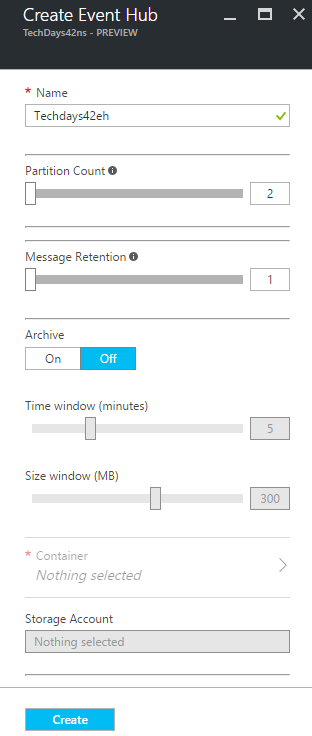
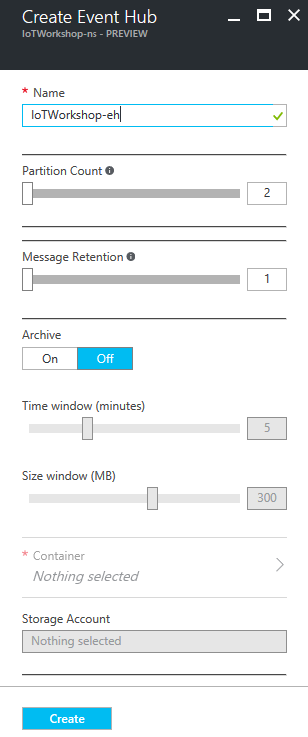
eventhub

diff --git a/Azure.md b/Azure.md
@@ -7,6 +7,8 @@ This is an example of how uplink and downlink messages from and to The Things Ne
 
 Before connecting to Azure Functions, you will first add an Azure Stream Analytics job and Azure Event Hub.
 
+The Azure Function will execute custom code in the Cloud, bases on certain telemetry. We need Stream Analytics and the Event Hub to pass the telemetry to our function.
+
 *Note: In this workshop, we will create uniquely named Azure resources. The suggested names could be reserved already. Just try another unique name.*
 
 ### Prerequisites
@@ -87,11 +89,11 @@ Follow these steps to create an Azure Event Hub which passes large amounts of ev
 12. Select `Create` and the portal will start creating the namespace. Once it is created, a notification is shown
 13. Creating a namespace will take some time, we have to check the completion this step
 14. So navigate back to the resource group (repeat step 1 and 2) and check the namespace creation in the resource group
-15. If the namespace has become listed, select it, eg. `IoTWorkshop-ns`. Otherwise, 'refresh' the list a few times
+15. If the namespace has become listed, select it, eg. `IoTWorkshop-ns`. Otherwise, 'refresh' the list of resources in the resource group a few times by pressing `Refresh` 
 
     ![alt tag](img/azure-portal-refresh.png)
 
-16. You are now in the namespace blade. It should be shown like this, with all information available (otherwise, refresh a few times):
+16. You are now in the namespace blade. It should be shown like this, with all information available (otherwise, refresh a few times so Azure can show the completely generated namespace). There are no event hubs yet in this namespace:
 
     ![alt tag](img/azure-namespace.png)
 
@@ -99,8 +101,13 @@ Follow these steps to create an Azure Event Hub which passes large amounts of ev
 
     ![alt tag](img/azure-namespace-add.png)
 
-18. A dialog for a new Event Hub is shown. Enter a unique name eg. `TechDays42eh`. A green sign will be shown if the name is unique *Note: the name will be reverted to lower case when the Event Hub is created!*
+18. A dialog for a new Event Hub is shown. Enter a unique name eg. `IoTWorkshop-eh`. A green sign will be shown if the name is unique *Note: the name will be reverted to lower case when the Event Hub is created!*
+
+    ![alt tag](img/azure-eventhub-create.png)
+
 19. Select `Create` and the portal will start creating the Event Hub. Once it is created, a notification is shown
+
+    ![alt tag](img/azure-eventhub-created.png)
 
 The Event Hub is now created. But before we leave the namespace it is created in, we need some secrets for later usage.
 
@@ -114,7 +121,7 @@ A few steps below we will create an Azure Functions triggered by an Event Hub. A
     ![alt tag](img/azure-eventhub-policy.png)
 
 3. **Write down** the Connection string `Connection String-Primary Key`
-4. **Write down** the `name` of the Event Hub eg. `techdays42eh` *Note: in lower case*
+4. **Write down** the `name` of the Event Hub eg. `iotworkshop-eh` *Note: in lower case*
 
 *Note: The Event Hub itself has Shared access policies too. We do not need to remember those, just the one of the policy of the namespace!.*
 
@@ -149,7 +156,7 @@ As shown above, the Azure Stream Analytics job will connect the IoT Hub and the 
     ![alt tag](img/azure-portal-add.png)
 
 12. Enter `huboutput` as Output alias
-13. The `Event Hub` is already selected as Sink and all other fields are automatically filled in with the right Event Hub, `techdays42eh` *Note: in lower case*
+13. The `Event Hub` is already selected as Sink and all other fields are automatically filled in with the right Event Hub, `iotworkshop-eh` *Note: in lower case*
 
     ![alt tag](img/azure-stream-analytics-add-output.png)
 
@@ -299,7 +306,7 @@ Follow these steps to create an Azure Function, triggered by the Event Hub, insi
     ![alt tag](img/azure-function-app-eventhubtrigger.png)
 
 10. At the bottom of the page (use the scrollbar of the page), you have to fill in the field 'Name your function'. Change `EventHubTriggerCSharp1` into `TechDaysEventHubTriggerFunction`
-11. In the field 'Event Hub name' you will have to pass the *remembered* name of the Event Hub eg. `techdays42eh` *Note: in lower case*
+11. In the field 'Event Hub name' you will have to pass the *remembered* name of the Event Hub eg. `iotworkshop-eh` *Note: in lower case*
 12. The 'Event Hub connection' field can be filled by pressing the `new` link
 13. A blade with an empty list of connection strings will be shown. Press `Add a connection string`
 
